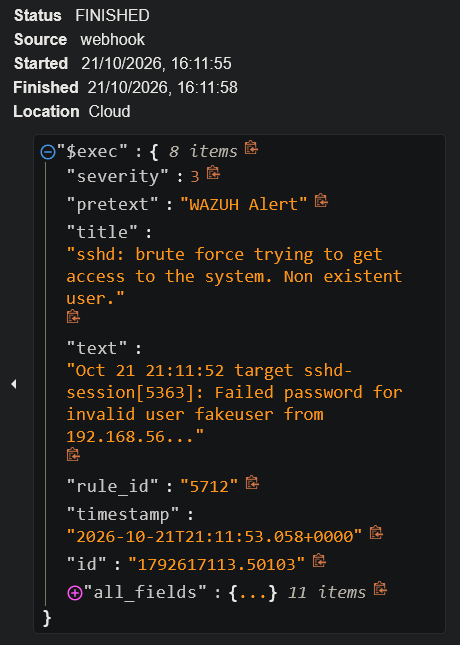
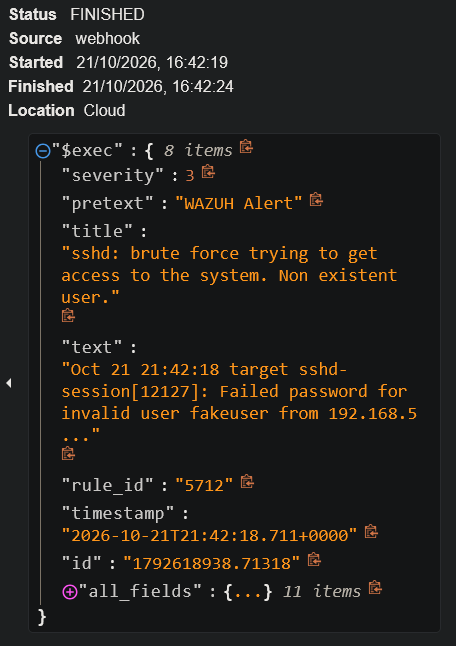
Scenario 03: thread SSH detection end-to-end on event 1792618938.71318

diff --git a/docs/scenarios/03-ssh-brute-force.md b/docs/scenarios/03-ssh-brute-force.md
@@ -26,7 +26,8 @@ hydra -l fakeuser -P ~/passwords.txt ssh://192.168.56.20 -t 4
 `-t 4` limits parallel connections so the burst looks like realistic tooling
 rather than a flood. Hydra reports `0 valid password found` — the attack
 completes without a successful login, which fixes the expected verdict up front:
-*attempted access, no compromise*.
+*attempted access, no compromise*. The brute force was launched several times
+while tuning the detection; the captured output is one representative run.
 
 > _Evidence: `evidence/scenario-03-ssh/attack-output.txt`_
 
@@ -46,25 +47,30 @@ agent, and matched on the manager. Two rules do the work:
   from per-attempt noise to a single pattern alert is the whole point of
   brute-force detection.
 
-Each run of the attack tripped 5712 exactly once, so three separate runs show up
-as three correlation hits:
+Because the attack was run several times, 5712 shows up once per run. The rest of
+this scenario follows **one** correlation event end to end —
+`1792618938.71318` — so the raw alert, the SOAR run, and the case all refer to
+the same event.
 
 ![Wazuh Discover filtered on rule.id:5712 — three brute-force runs, each collapsed into one correlation alert](../../evidence/scenario-03-ssh/wazuh-5712-alerts.png)
-*Three attack runs, three 5712 hits. Each hit represents a full burst of failed
-logins collapsed into one alert — the per-attempt 5710 events never reach the
-analyst as individual noise.*
+*Three attack runs, three 5712 hits — each hit is a full burst of failed logins
+collapsed into one alert, so the per-attempt 5710 events never reach the analyst
+as individual noise. The run followed below is the top hit (`16:42`).*
 
-Expanding one 5712 alert shows the fields triage actually uses — `data.srcip`,
+Expanding that alert shows the fields triage actually uses — `data.srcip`,
 `data.srcuser`, `rule.frequency`, and the MITRE mapping:
 
-![Expanded 5712 alert showing srcip 192.168.56.10, srcuser fakeuser, frequency 8, MITRE T1110 Credential Access / Brute Force](../../evidence/scenario-03-ssh/wazuh-5712-detail.png)
-*One 5712 alert expanded: `frequency: 8`, `data.srcip: 192.168.56.10`,
+![Expanded 5712 alert, event 1792618938.71318 — srcip 192.168.56.10, srcuser fakeuser, frequency 8, MITRE T1110 Credential Access / Brute Force](../../evidence/scenario-03-ssh/wazuh-5712-detail.png)
+*Event `1792618938.71318` expanded: `frequency: 8`, `data.srcip: 192.168.56.10`,
 `data.srcuser: fakeuser`, mapped to T1110 (Credential Access → Brute Force).*
 
-> _Evidence: `evidence/scenario-03-ssh/alert-5712.json` (level 10 correlation),
-> `evidence/scenario-03-ssh/alert-5710.json` (per-attempt). Authoritative event
-> times are the UTC timestamps inside the JSON; dashboard wall-clock rendering
-> depends on the viewer's timezone._
+> _Evidence: `evidence/scenario-03-ssh/alert-5712.json` (event `…71318`, level 10
+> correlation), `evidence/scenario-03-ssh/alert-5710.json` (per-attempt sample)._
+>
+> _Match artifacts by **event ID**, not wall-clock. The authoritative time is the
+> UTC timestamp in the JSON (`21:42:18.711Z`); the Kali attacker renders UTC‑4 and
+> the Wazuh/Shuffle/TheHive stack renders UTC‑5, so the same event shows different
+> clock values across screenshots._
 
 ---
 
@@ -80,7 +86,7 @@ Expanding one 5712 alert shows the fields triage actually uses — `data.srcip`,
   → tooling.
 - **Correlation** — rule 5712 confirms the volume/time threshold was crossed.
 
-**Verdict:** Confirmed brute-force attempt. No successful login in this run
+**Verdict:** Confirmed brute-force attempt. No successful login
 (`0 valid password found`), so the outcome is *attempted access, no
 compromise* — but the source is a clear candidate for blocking.
 
@@ -92,20 +98,20 @@ The 5712 alert is forwarded to Shuffle by webhook. The key behavior here is
 **aggregation**: Wazuh's correlation has already collapsed the burst, so Shuffle
 receives **one** event for the whole run rather than one per failed login.
 
-![Shuffle workflow run — a single webhook carrying rule_id 5712, severity 3, for the whole brute-force burst](../../evidence/scenario-03-ssh/shuffle-aggregated.png)
-*One Shuffle run per correlation alert. The `$exec` payload carries `rule_id:
-5712`, the sshd title, and the source log line — a single actionable event, not
-eight.*
+![Shuffle workflow run for event 1792618938.71318 — a single webhook carrying rule_id 5712, severity 3, for the whole brute-force burst](../../evidence/scenario-03-ssh/shuffle-aggregated.png)
+*The Shuffle run for event `1792618938.71318`: the `$exec` payload carries
+`rule_id: 5712`, the sshd title, and `id: 1792618938.71318` — one actionable
+event, not eight.*
 
 Shuffle then opens a case in TheHive. This is the same path phishing (Scenario
 02) takes — **SSH brute force reaches case creation too**; phishing is simply the
 scenario where VirusTotal enrichment is showcased.
 
-![TheHive alert for the SSH brute force — SEVERITY:MEDIUM, tags brute-force/ssh/wazuh, description with source, target user, attempt count, MITRE and rule](../../evidence/scenario-03-ssh/thehive-alert.png)
+![TheHive case for event 1792618938.71318 — SEVERITY:MEDIUM, tags brute-force/ssh/wazuh, description with source, target user, attempt count, MITRE and rule](../../evidence/scenario-03-ssh/thehive-alert.png)
 *TheHive case: `SEVERITY:MEDIUM`, tagged brute-force / ssh / wazuh, description
 `SSH brute force | Source: 192.168.56.10 | Target user: fakeuser | Correlated
-failed attempts: 8 | MITRE T1110 | Rule 5712`. The `Reference` ties the case
-back to the exact Wazuh event that created it.*
+failed attempts: 8 | MITRE T1110 | Rule 5712`. The `Reference` is
+`1792618938.71318` — the same event as the alert and Shuffle run above.*
 
 A brute force in progress is a strong auto-block candidate: high confidence,
 time-sensitive (every minute is more guesses), reversible, and backed by a
@@ -123,6 +129,8 @@ justifies an automated `firewall-drop` rather than waiting for an analyst.
   *pattern* is the alert, and only the pattern should reach the analyst.
 - Correlation also does the SOAR a favor: because 5712 collapses the burst, the
   case queue sees one case per campaign, not one per guess.
+- Timestamps are only trustworthy end-to-end when matched by **event ID** —
+  hosts in a lab rarely share a timezone, so wall-clock alone will mislead.
 - Contrast with Scenario 04 (Windows RDP): the same technique (T1110) surfaces
   through a completely different log source (journald vs. the Windows Security
   channel), which is why host coverage must span both platforms.
